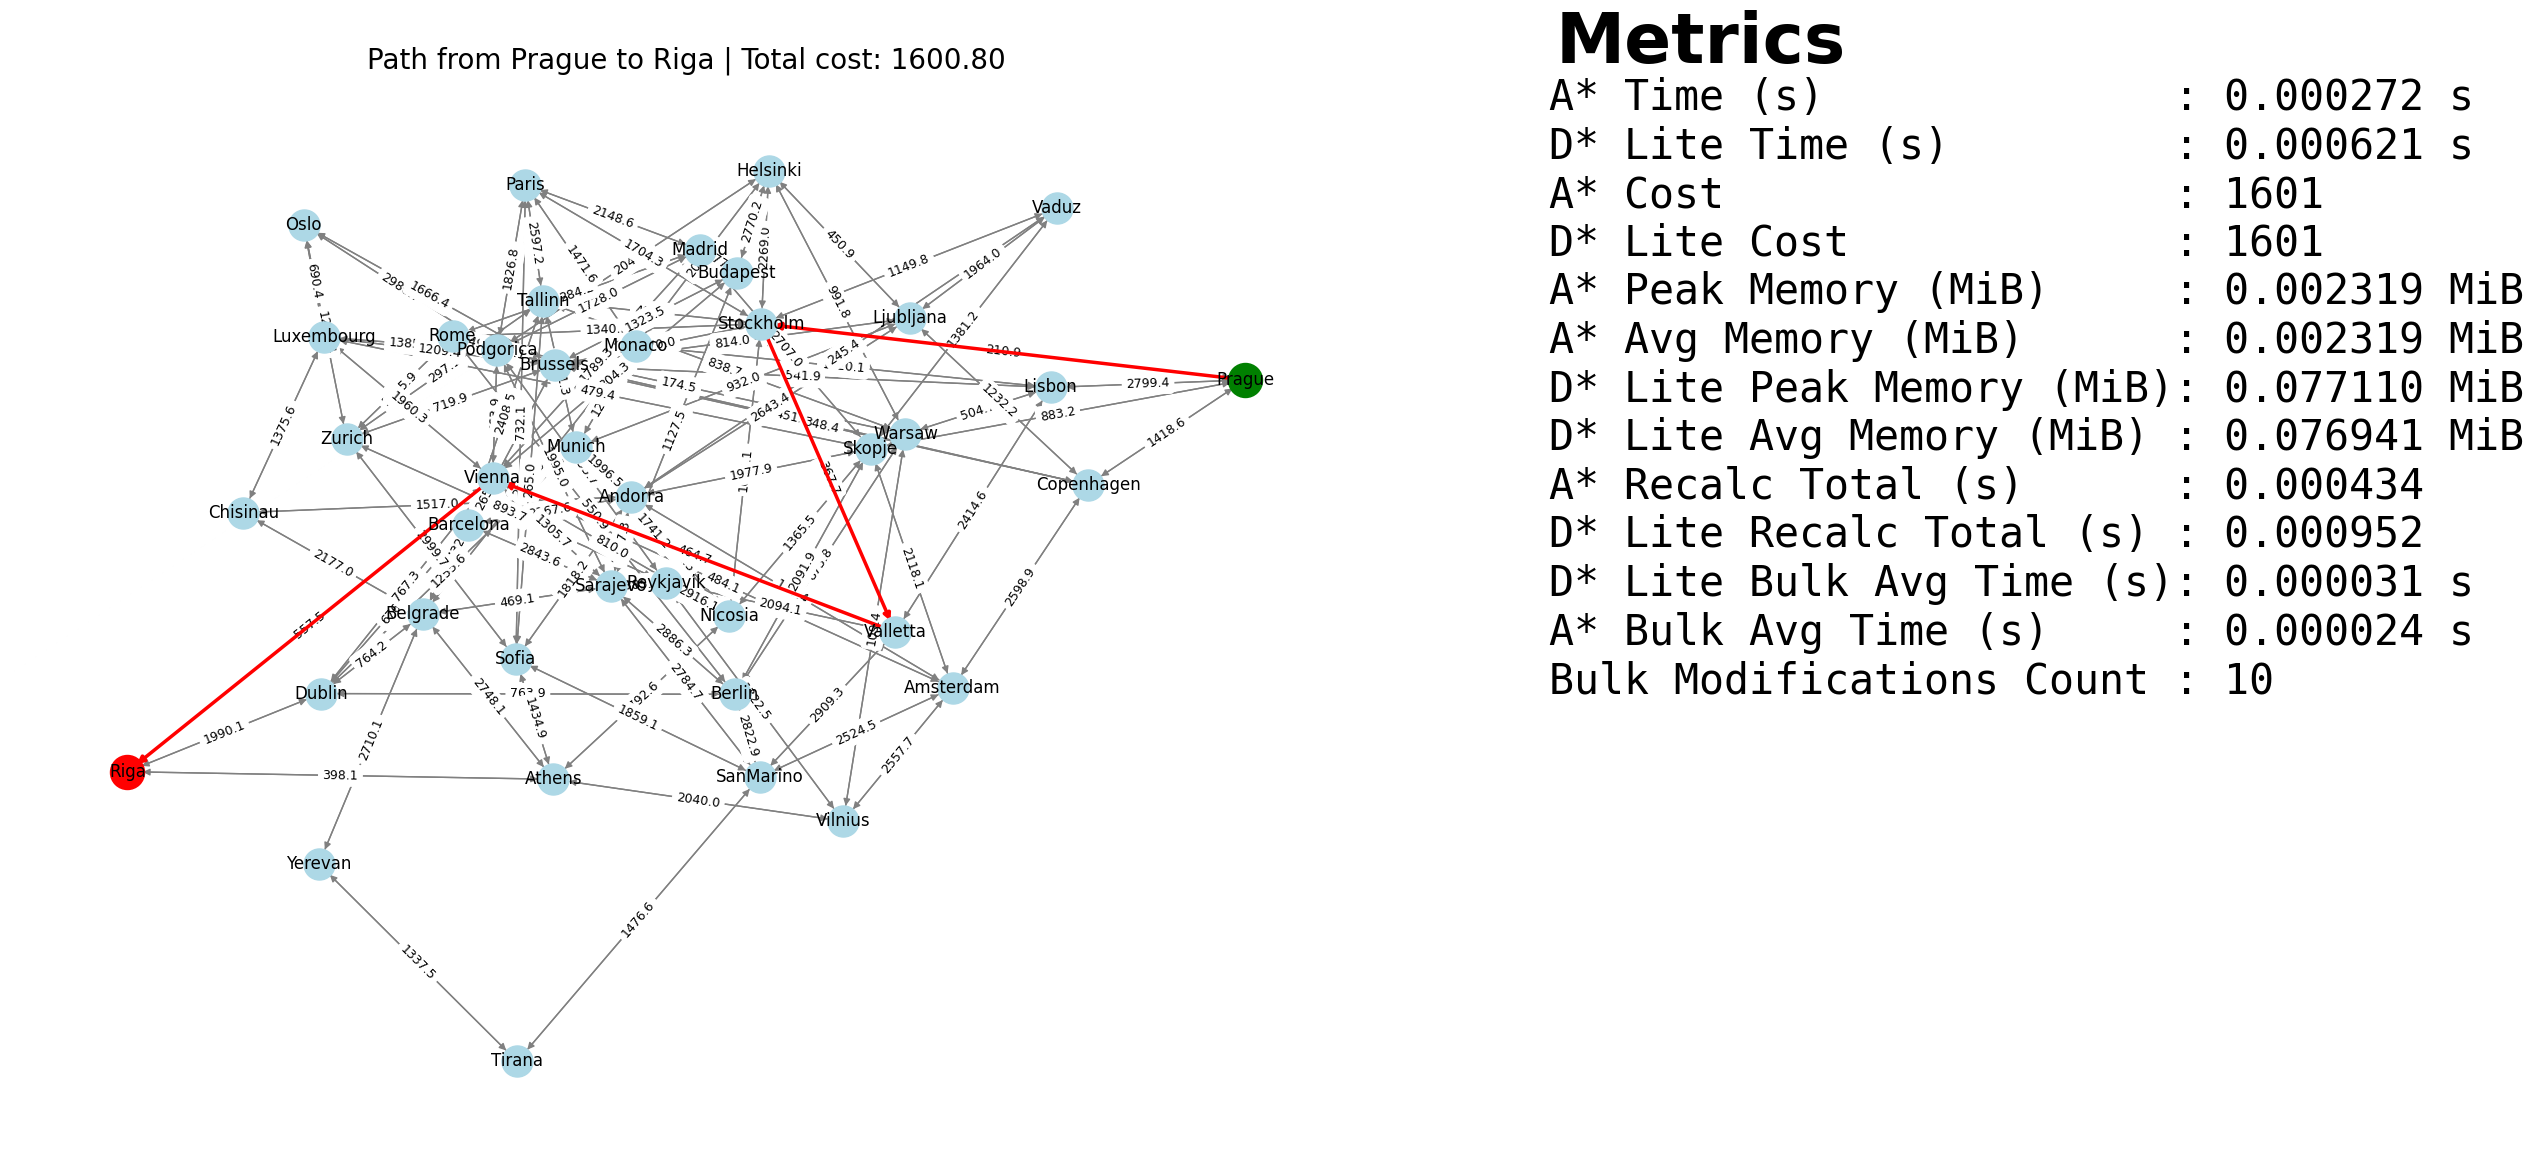
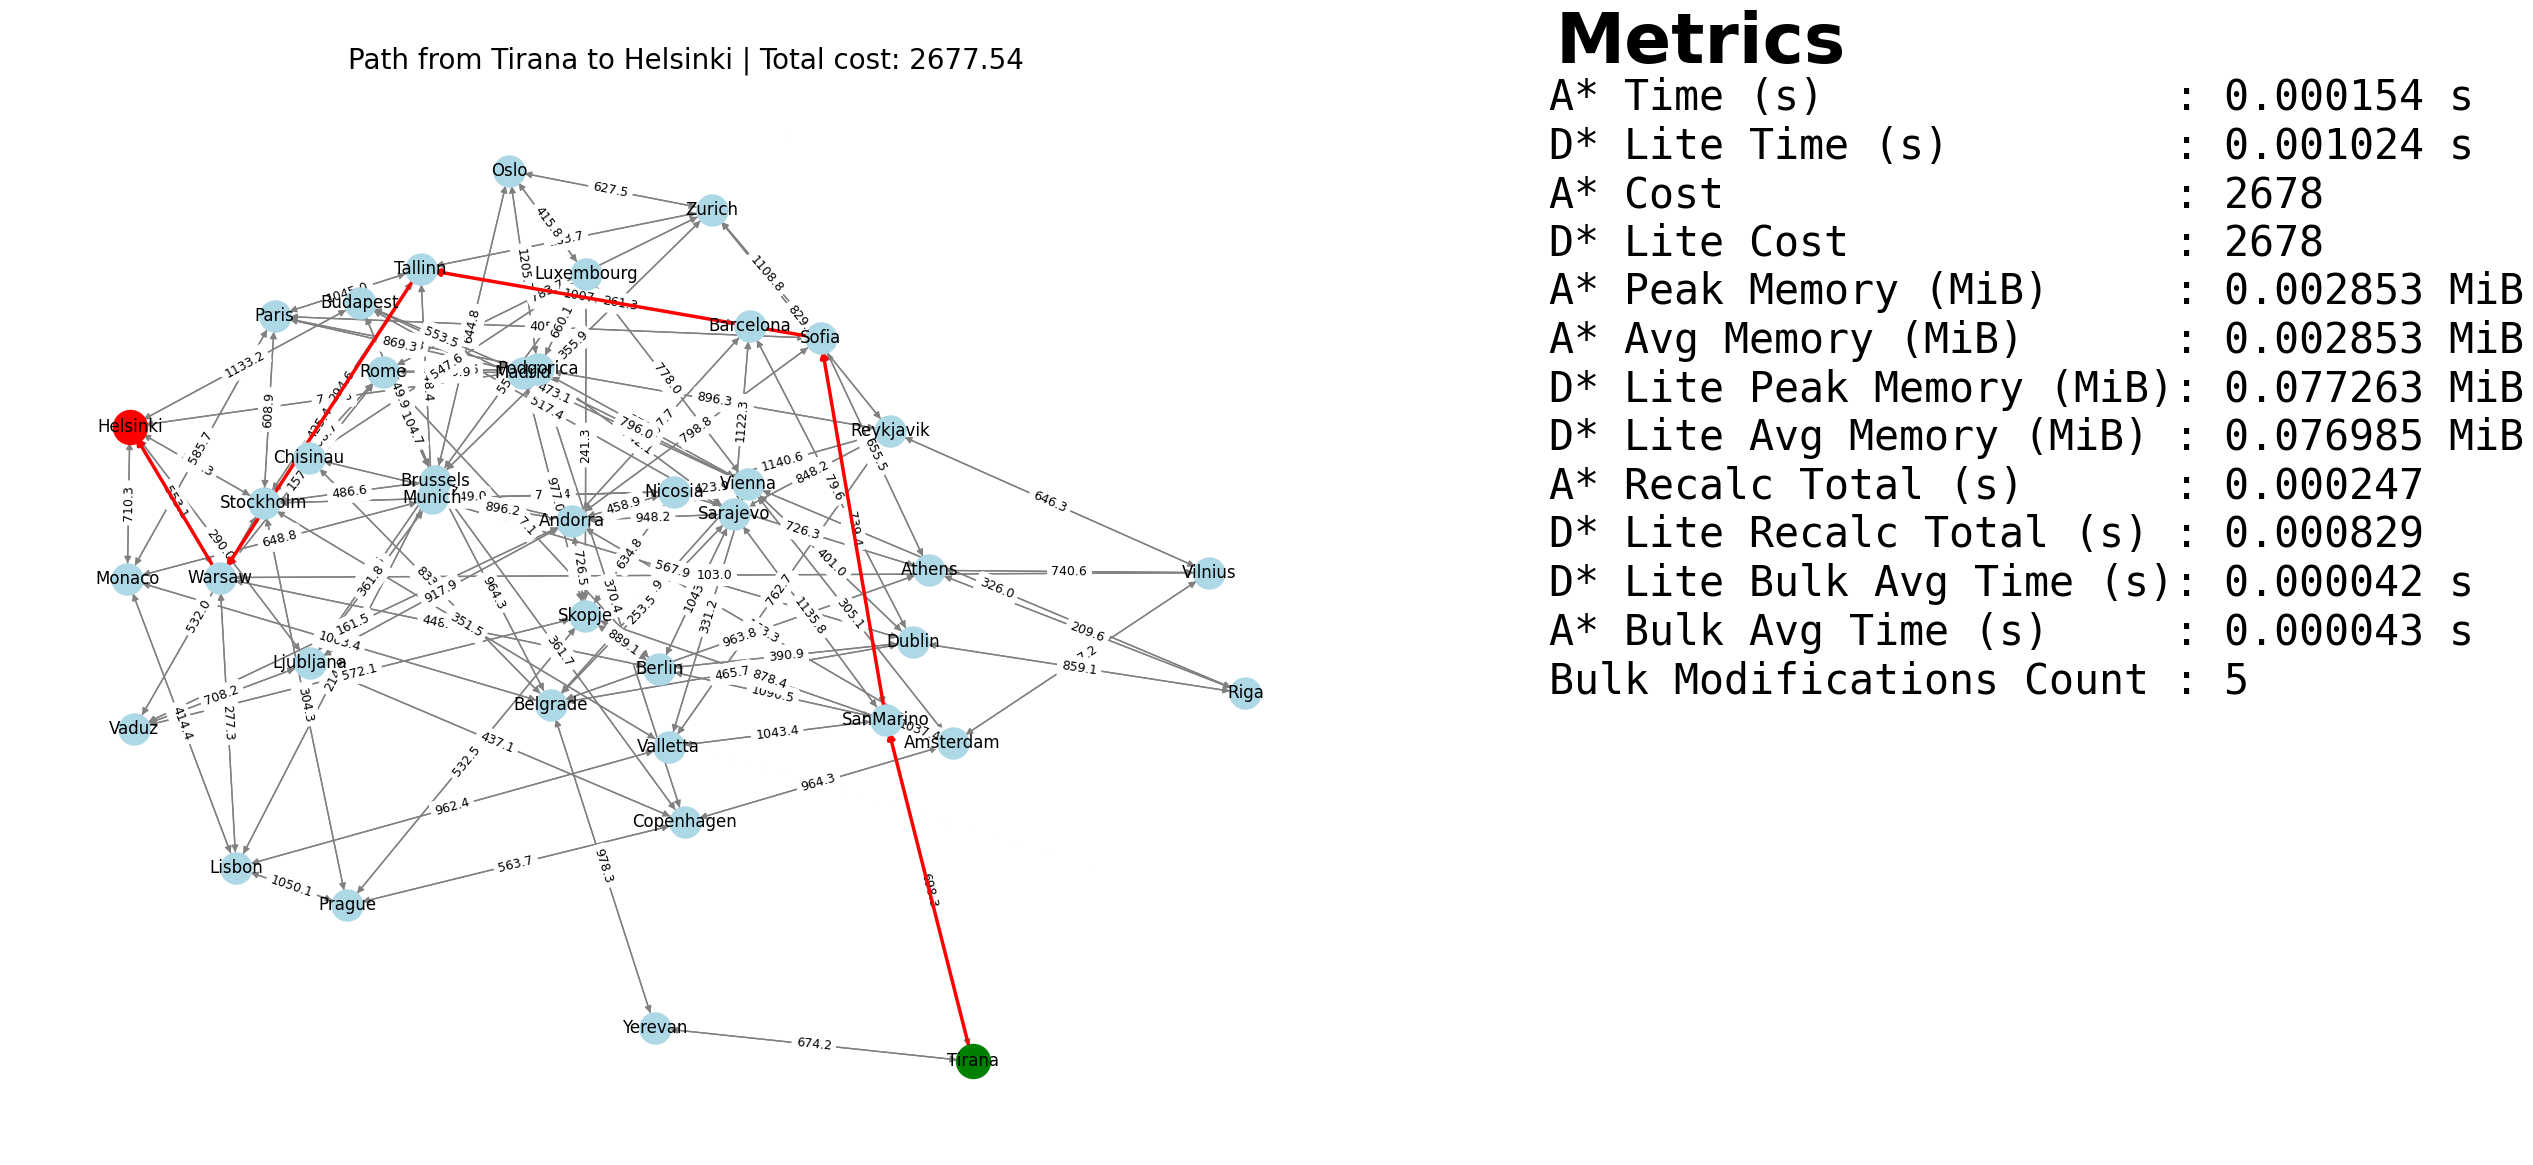
Finalize part to add plots

diff --git a/main.py b/main.py
@@ -64,6 +64,17 @@ def append_sheet(result_dict, sheet_name, excel_path=EXCEL_FILE):
 
 # Worker wrappers
 
+def run_astar(graph, n_mods_unused, shared):
+    try:
+        path = nx.astar_path(graph, SOURCE, TARGET, weight="weight")
+        cost = sum(graph[u][v]["weight"] for u, v in zip(path, path[1:]))
+
+        shared["A*"] = {"Cost": cost, "Path length": len(path) - 1}
+
+    except Exception as exc:
+        print("Erro no worker A* :", exc)
+
+
 def run_bidirectional(graph, n_mods, shared):
     tester = AStarVsBidirectionalComparison(graph, SOURCE, TARGET, n_mods)
     shared["Bidirectional A*"] = tester.run_all()
@@ -109,7 +120,7 @@ if __name__ == "__main__":
                   index=False,
                   encoding="utf-8")
 
-    base_graph = generate_graph_from_csv(CSV_PROCESSED_PATH, "distance_km", DIRECTED)
+    base_graph = generate_graph_from_csv(CSV_PROCESSED_PATH, "combined_cost", DIRECTED)
     if not nx.has_path(base_graph, SOURCE, TARGET):
         print("No path between source and target. Aborting.")
         exit(1)
@@ -121,7 +132,22 @@ if __name__ == "__main__":
     manager = Manager()
     shared_results = manager.dict()
 
+    try:
+        astar_path = nx.astar_path(base_graph, SOURCE, TARGET, weight="weight")
+        cost = sum(base_graph[u][v]["weight"] for u, v in zip(astar_path, astar_path[1:]))
+
+        base_plotter.draw(
+            source=SOURCE,
+            target=TARGET,
+            path=astar_path,
+            metrics={"Cost": cost},
+            output_path="Graphs/Plots/path_astar.png"
+        )
+    except Exception as e:
+        print("Erro ao desenhar caminho A*:", e)
+
     processes = [
+        Process(target=launch, args=(run_astar, base_graph, N_MODIFICATIONS, shared_results)),
         Process(target=launch, args=(run_bidirectional, base_graph, N_MODIFICATIONS, shared_results)),
         Process(target=launch, args=(run_dstar, directed_graph, N_MODIFICATIONS, shared_results)),
         Process(target=launch, args=(run_idastar, base_graph, N_MODIFICATIONS, shared_results)),

diff --git a/config.py b/config.py
@@ -1,9 +1,9 @@
-MEMORY_LIMIT = 26
+MEMORY_LIMIT = 30
 LOOKAHEAD = 25
 MOVELIMIT = 3
-N_MODIFICATIONS = 10
-SOURCE = "Prague"
-TARGET = "Riga"
+N_MODIFICATIONS = 5
+SOURCE = "Tirana"
+TARGET = "Helsinki"
 CSV_PATH = "Csv/cities_nodes_special_original.csv"
 CSV_PROCESSED_PATH = "Csv/Processed/processed.csv"
 EXCEL_FILE = "metrics.xlsx"
